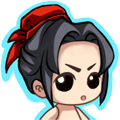
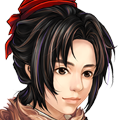
换掉了装备管理界面的头像
11

diff --git a/online/js/woh.stageBattle.js b/online/js/woh.stageBattle.js
@@ -50,10 +50,6 @@ Laro.NS('woh.stageClass', function (L) {
                 function startWave(i) {
                     if (i >= line.length) {
                         me.activeLines--;
-                        // if (me.activeLines == 0) {
-                        //     //TODO:È«²¿½áÊø
-                        //     alert("你被螃蟹君干掉了");
-                        // }
                         return;
                     }
                     var wave = line[i].slice();
@@ -72,18 +68,8 @@ Laro.NS('woh.stageClass', function (L) {
                 }
                 startWave(0);
             })
-            // this.roles.add('001', new woh.Role(woh.runtime.role['001'], this.aiController));
-            // this.roles.get('001').setPos(100, 400);
-            // this.roles.get('001').stage = this;
-            // this.roles.add('sola_cheng', new woh.Role(woh.runtime.role['002'], this.aiController));
-            // this.roles.get('sola_cheng').setPos(200, 400);
-            // this.roles.get('sola_cheng').stage = this;
-            // this.roles.add('attack_1', new woh.SkillEffect(woh.g_config.skill_effect.normal_1));
-            // this.roles.get('attack_1').setPos(300, 300);
-            // this.roles.get('attack_1').stage = this;
         },
         transition: function () {
-            //this.timeInState > 2 && woh.gameScript.continueExec();
             this.activeLines == 0 && woh.gameScript.continueExec();
         },
         leave: function () {

diff --git a/online/js/g_config.js b/online/js/g_config.js
@@ -22,7 +22,6 @@ woh.g_config.script={
             key:'intro'
         },
         next:'intro'
-        //next:'loading_2'
     },
     'intro':{
         type:'intro',//标记相应的stage类型
@@ -1439,7 +1438,7 @@ woh.g_config.monsters = {
             standup: [0, 0, 190, 120],
             standdown: [0, 0, 190, 120]
         },
-        "damageArea":[0,-45,100,30],
+        "damageArea":[100,-45,200,30],
         "stand": [
             {
                 "info": {
@@ -1449,7 +1448,7 @@ woh.g_config.monsters = {
                     "framerate": 2,
                     "pivotx": 100,
                     "pivoty": 123,
-                    "events": [{name: 'attack_affect', frame: 2}]
+                    "events": []
                 },
                 "data": [
                     [592,0,887,206,592,0,887,206],
@@ -1485,7 +1484,7 @@ woh.g_config.monsters = {
                     "framerate": 2,
                     "pivotx": 100,
                     "pivoty": 123,
-                    "events": []
+                    "events": [{name: 'attack_affect', frame: 2}]
                 },
                 "data": [
                     [592,0,887,206,592,0,887,206],
